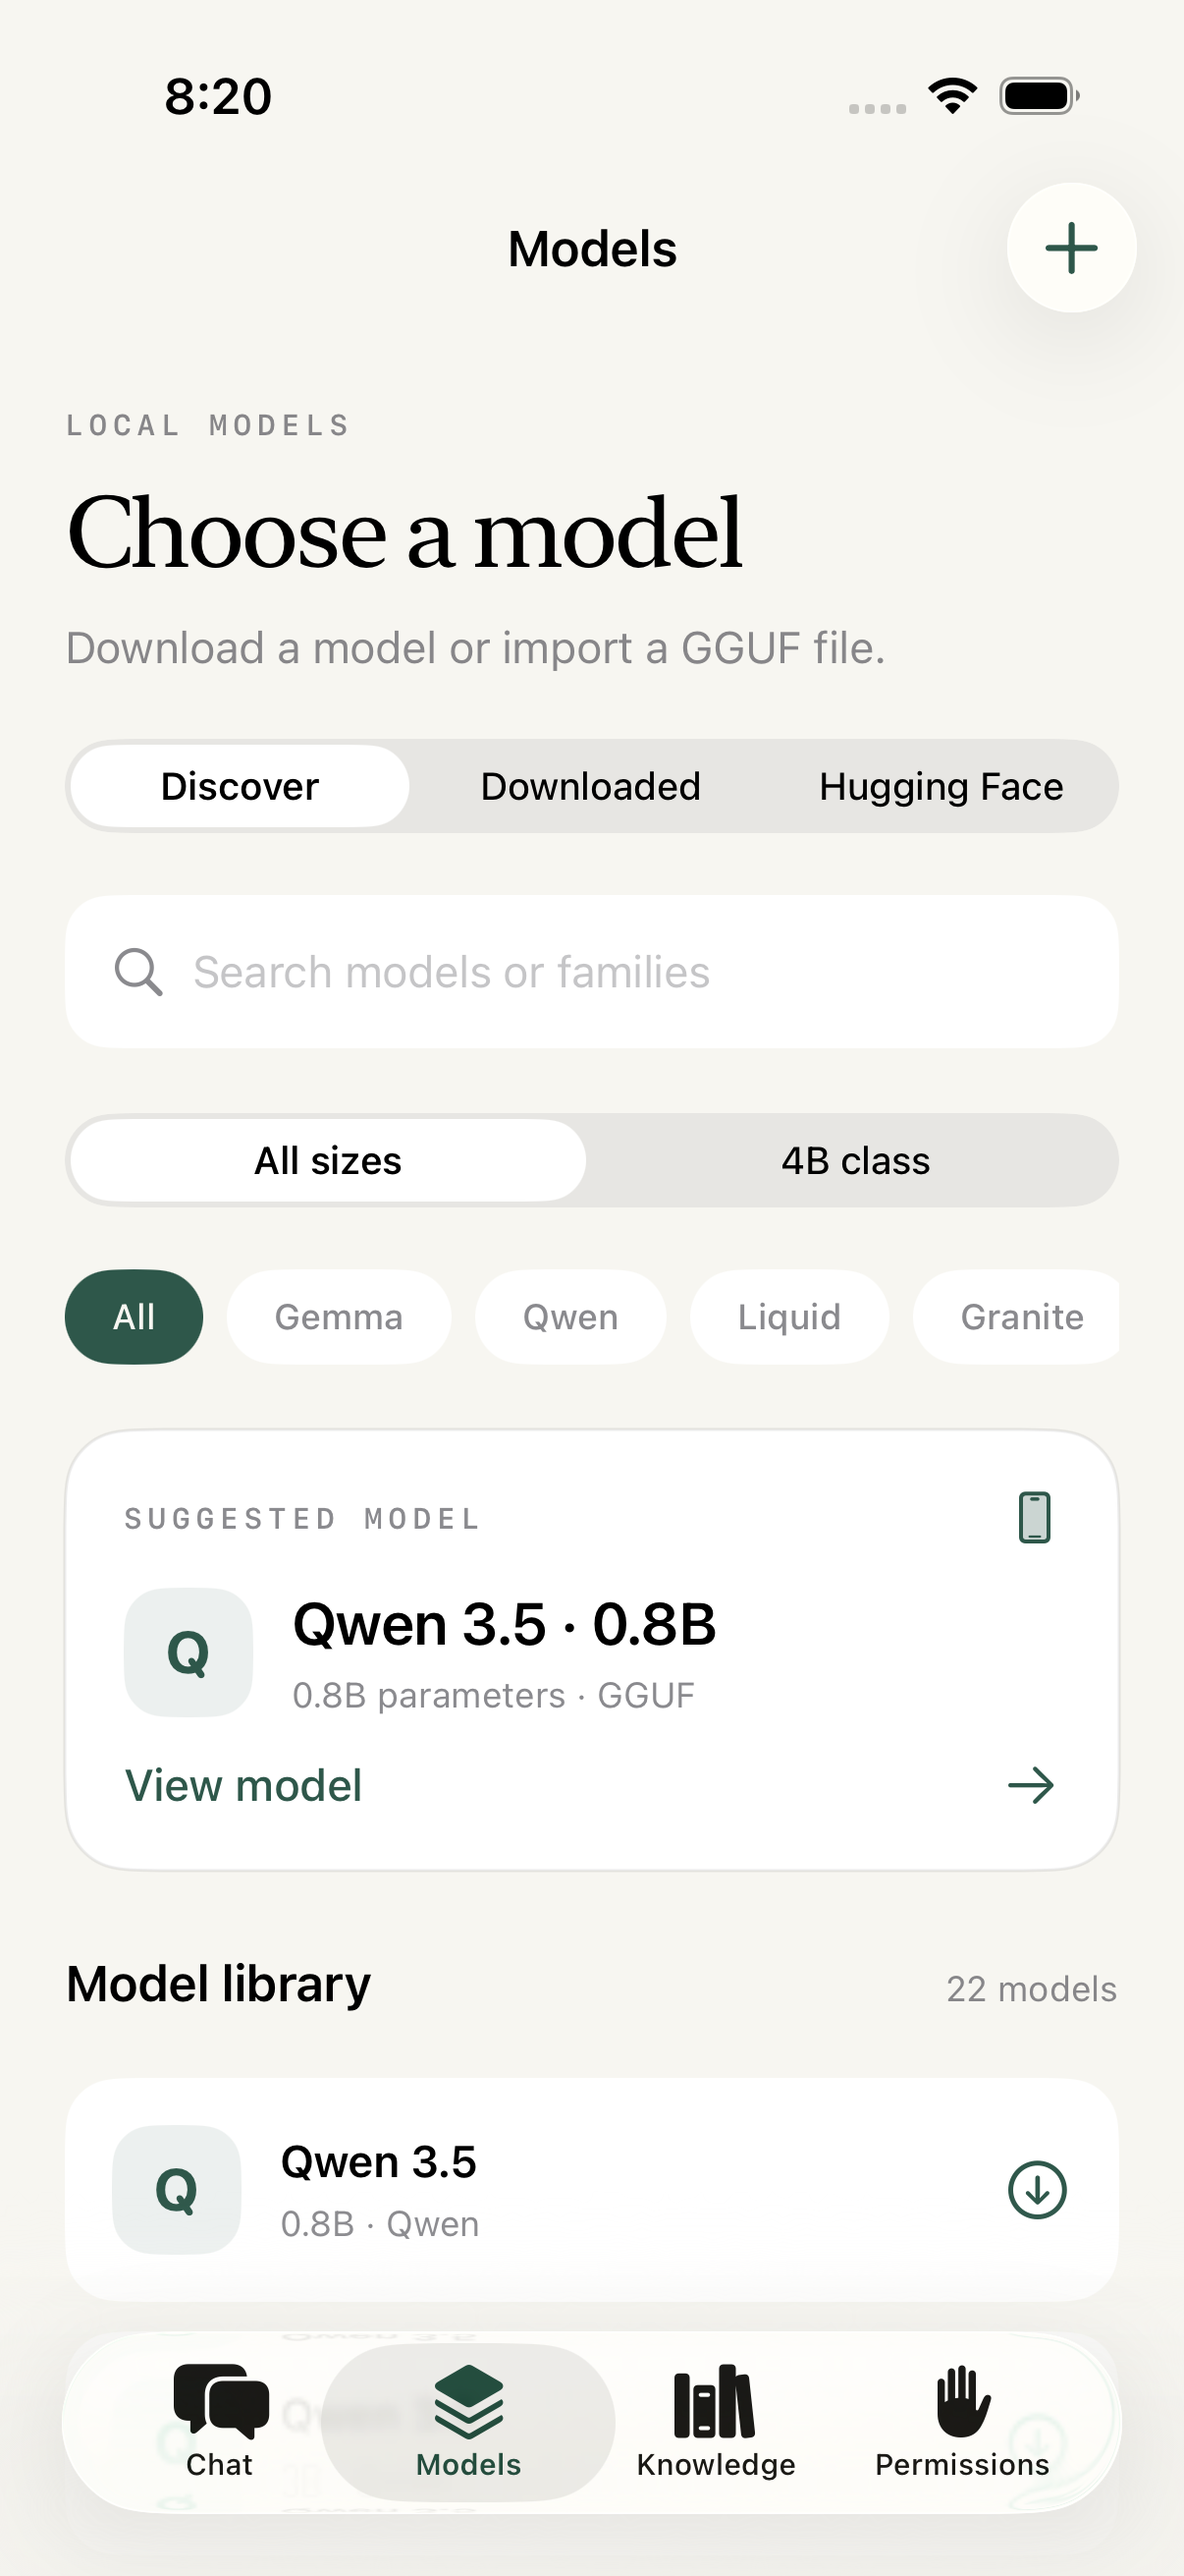
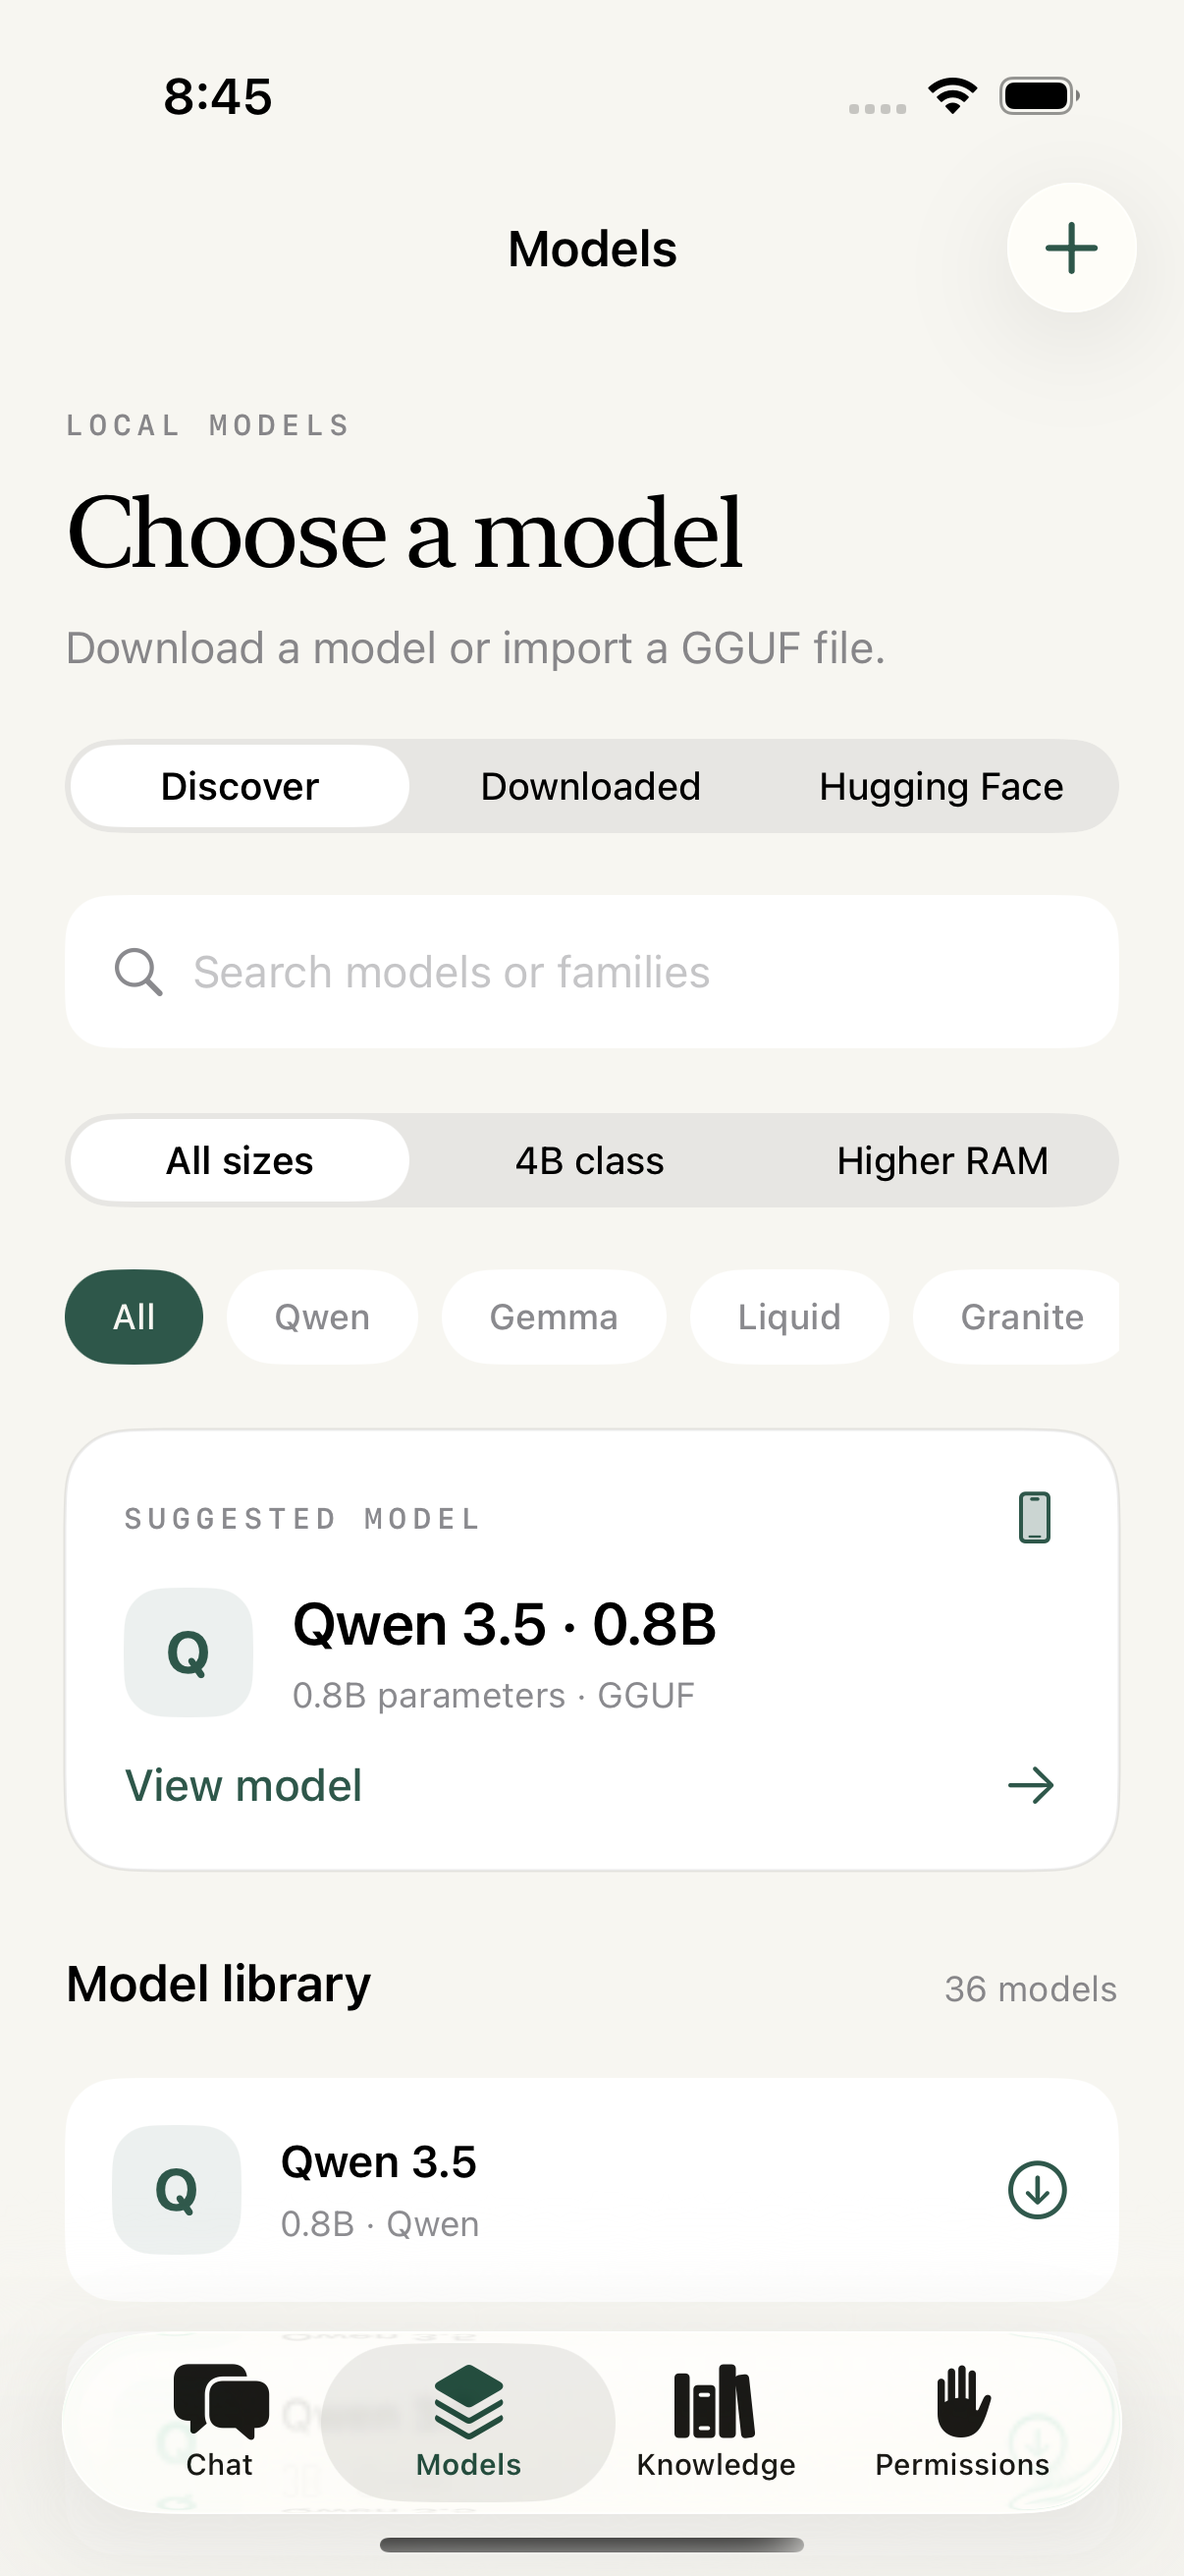
docs: verify expanded catalog and registered-bundle simulator build

diff --git a/docs/validation.md b/docs/validation.md
@@ -4,14 +4,14 @@ Environment: Apple Silicon Mac, Xcode 26.1.1, Swift 6.2.1, iPhone 17 Pro simulat
 
 | Check | Result |
 | --- | --- |
-| Swift core suite | 10 tests passed |
-| Native integration suite | 11 tests passed |
-| UI suite | 15 tests passed |
+| Swift core suite | 11 tests passed |
+| Native integration suite | 12 tests passed |
+| UI suite | 16 tests passed |
 | Release configuration suite | 9 tests passed |
 | Unsigned iPhone Release archive | Passed; app identity and privacy manifest checked |
 | Workflow and shell lint | Actionlint and ShellCheck passed |
-| Curated Hugging Face repository validation | All 22 contain single-file GGUFs |
-| Visual inspection | Chat, Models, 4B filter, Knowledge, and Permissions inspected; screenshots included |
+| Curated Hugging Face repository validation | All 36 contain single-file GGUFs at their preferred quantization |
+| Visual inspection | Chat, Models, 4B/Higher RAM filters, Knowledge, and Permissions inspected; screenshots included |
 
 The native suite uses actual external artifacts, not substitute responses:
 
@@ -23,9 +23,11 @@ The native suite uses actual external artifacts, not substitute responses:
 
 The core suite covers source numbering/deduplication, source filtering, unsupported tool syntax, corpus updates/deletion, compression, quantization, loop limits, traversal, symlinks, overwrite refusal, stable app identity, and 4B size classification/search. Native checks also verify full-question Wikipedia retrieval, rejection of unconnected folders before approval, the installed public name, and distinct catalog IDs with memory guidance. UI tests exercise the four tabs, family/4B filtering and search together, Chat/Work switching, cold launch/background return, draft preservation, all import pickers, permission and settings persistence, model selection/deletion, invalid repositories, live catalogs, real local chat/history, offline source inspection, and Work approval/denial. Work answers must expose their real retrieved evidence and either valid inline citations or an explicit visible warning that inline citations are missing; citations are never fabricated to satisfy the check. A separate native test requires a real model-generated numbered citation.
 
-All 45 tests passed locally in the final 4B validation pass. The combined native/UI result is `TestResults/Thimvale-4b.xcresult` (26 passed, zero failed or skipped); the standalone core and release-configuration suites contribute ten and nine. The unsigned Release archive is `TestResults/Thimvale-4b.xcarchive`. Release tests exercise credential/profile validation, build numbering, export options, and event guards without real Apple secrets. They do not establish that a signed upload succeeds.
+All 48 tests passed locally in the expanded-model validation pass. The combined native/UI result is `TestResults/Thimvale-expanded.xcresult` (28 passed, zero failed or skipped); the standalone core and release-configuration suites contribute eleven and nine. This pass uses the owner-registered `com.ethanrimes.thimvale` bundle identifier and covers the new Higher RAM filter, Nanbeige search, all catalog families, total-versus-active parameter labels, and retained 4B selection. Three pre-existing catalog defaults were subsequently corrected to Q8_0 because those publishers only expose Q8_0 files; all 36 preferred quantizations passed the live catalog check.
 
-After the rename, SHA-256 hashes of the existing installation's conversation, download, folder, model, and permission JSON records matched their pre-rename values. The public name is Thimvale; the bundle ID, storage directory, Keychain service, and background transfer identifier intentionally retain their existing identity. See [simulator regressions](simulator-regressions.md) for the reported red screen, reproduced bugs, and fixes. Tests use isolated storage and credentials rather than resetting the user's app. Simulator test sessions use a fixed inference seed; ordinary app sessions do not.
+The unsigned Release archive `TestResults/Thimvale-registered.xcarchive` also passed with `com.ethanrimes.thimvale`; its bundle identifier and privacy manifest were checked. Release tests exercise credential/profile validation, build numbering, export options, and event guards without real Apple secrets. They do not establish that a signed upload succeeds. The first signed cloud build of the registered bundle is tracked in GitHub Actions.
+
+After the initial cosmetic rename, SHA-256 hashes of the existing installation's conversation, download, folder, model, and permission JSON records matched their pre-rename values. The owner then selected a new App Store bundle ID, `com.ethanrimes.thimvale`; this installs separately from `com.ethanrimes.pocketmind`. The earlier installation is retained, but its files and Keychain data do not automatically migrate. See [simulator regressions](simulator-regressions.md) for the reported red screen, reproduced bugs, and fixes. Tests use isolated storage and credentials rather than resetting the user's app. Simulator test sessions use a fixed inference seed; ordinary app sessions do not.
 
 ## What these checks do not establish
 
@@ -33,7 +35,7 @@ No physical iPhone was connected for performance or background-transfer testing.
 
 No full English Wikipedia download was performed during development. Its real catalog entries, download sizes, and SHA-256 metadata are loaded by the app; actual offline search was exercised against the smaller real archive. Wikipedia uses its built-in compressed full-text index plus passage reranking, not a precomputed vector for every article.
 
-Only the small Liquid model was exercised for inference. Availability checks for the other 21 curated entries, including the four newly added [4B models](models-4b.md), do not prove runtime compatibility, quality, or memory fitness. No 4B weights were downloaded or executed. Citation following and tool selection remain model-dependent; the app displays retrieved evidence and flags an answer that omits citations.
+Only the small Liquid model was exercised for inference. Availability checks for the other 35 curated entries, including the [4B models](models-4b.md) and [benchmark-chart additions](model-expansion.md), do not prove runtime compatibility, quality, or memory fitness. No 4B or larger weights were downloaded or executed. Citation following and tool selection remain model-dependent; the app displays retrieved evidence and flags an answer that omits citations.
 
 Web search's request and error paths are implemented, but no Brave API key was supplied, so a successful authenticated Brave search was not exercised. No App Store/TestFlight upload or signed device installation was performed.
 

diff --git a/docs/model-expansion.md b/docs/model-expansion.md
@@ -33,8 +33,10 @@ Official GGUF releases are preferred. Bartowski and Unsloth entries are explicit
 
 Family filters are derived from the catalog, so the new publishers are selectable without a second hand-maintained list. The Higher RAM filter, row labels, live download sizes, and loading warning expose the heavier options without presenting them as universally suitable for iPhones.
 
+<img src="screenshots/models-higher-ram.png" width="260" alt="Higher RAM filter and download memory guidance"> <img src="screenshots/models-nanbeige.png" width="260" alt="Nanbeige found through library search">
+
 ## Validation limits
 
-All 14 reported architectures have handlers in the pinned runtime: `lfm2`, `lfm2moe`, `granite`, `llama`, `nanbeige`, `bailingmoe3`, `gemma4`, `qwen35`, and `falcon-h1`. A handler and a valid download do **not** prove that every tensor, template, quantization, tool format, or memory configuration works on device. These new weights have not yet been inference-tested in Thimvale. Memory guidance is approximate, not a supported-device guarantee; context and free RAM matter. The small Liquid fixture remains the model used in automated inference tests.
+All 14 models report architectures with handlers in the pinned runtime: `lfm2`, `lfm2moe`, `granite`, `llama`, `nanbeige`, `bailingmoe3`, `gemma4`, `qwen35`, and `falcon-h1`. A handler and a valid download do **not** prove that every tensor, template, quantization, tool format, or memory configuration works on device. These new weights have not yet been inference-tested in Thimvale. Memory guidance is approximate, not a supported-device guarantee; context and free RAM matter. The small Liquid fixture remains the model used in automated inference tests.
 
 Already present from the chart: LFM 2.5 230M/2.6B, Gemma 4 E2B, and Qwen 3.5 4B. Existing downloads and model IDs are retained; no weights download automatically.

diff --git a/docs/models-4b.md b/docs/models-4b.md
@@ -1,6 +1,6 @@
 # 4B model tier
 
-Added September 6, 2026. The Models → Discover → **4B class** filter includes the four 4B models below plus Phi 4 Mini (3.8B) and Nanbeige 4.2-3B (about 4.2B including embeddings). Family filters and text search compose with this filter; typing `4b` also searches the parameter label. The screenshot records the initial five-model tier before Nanbeige was added.
+Added September 6, 2026. The Models → Discover → **4B class** filter includes the four 4B models below plus Phi 4 Mini (3.8B) and Nanbeige 4.2-3B (about 4.2B including embeddings). Family filters and text search compose with this filter; typing `4b` also searches the parameter label.
 
 ![The 4B model filter in the iPhone simulator](screenshots/models-4b.png)
 
